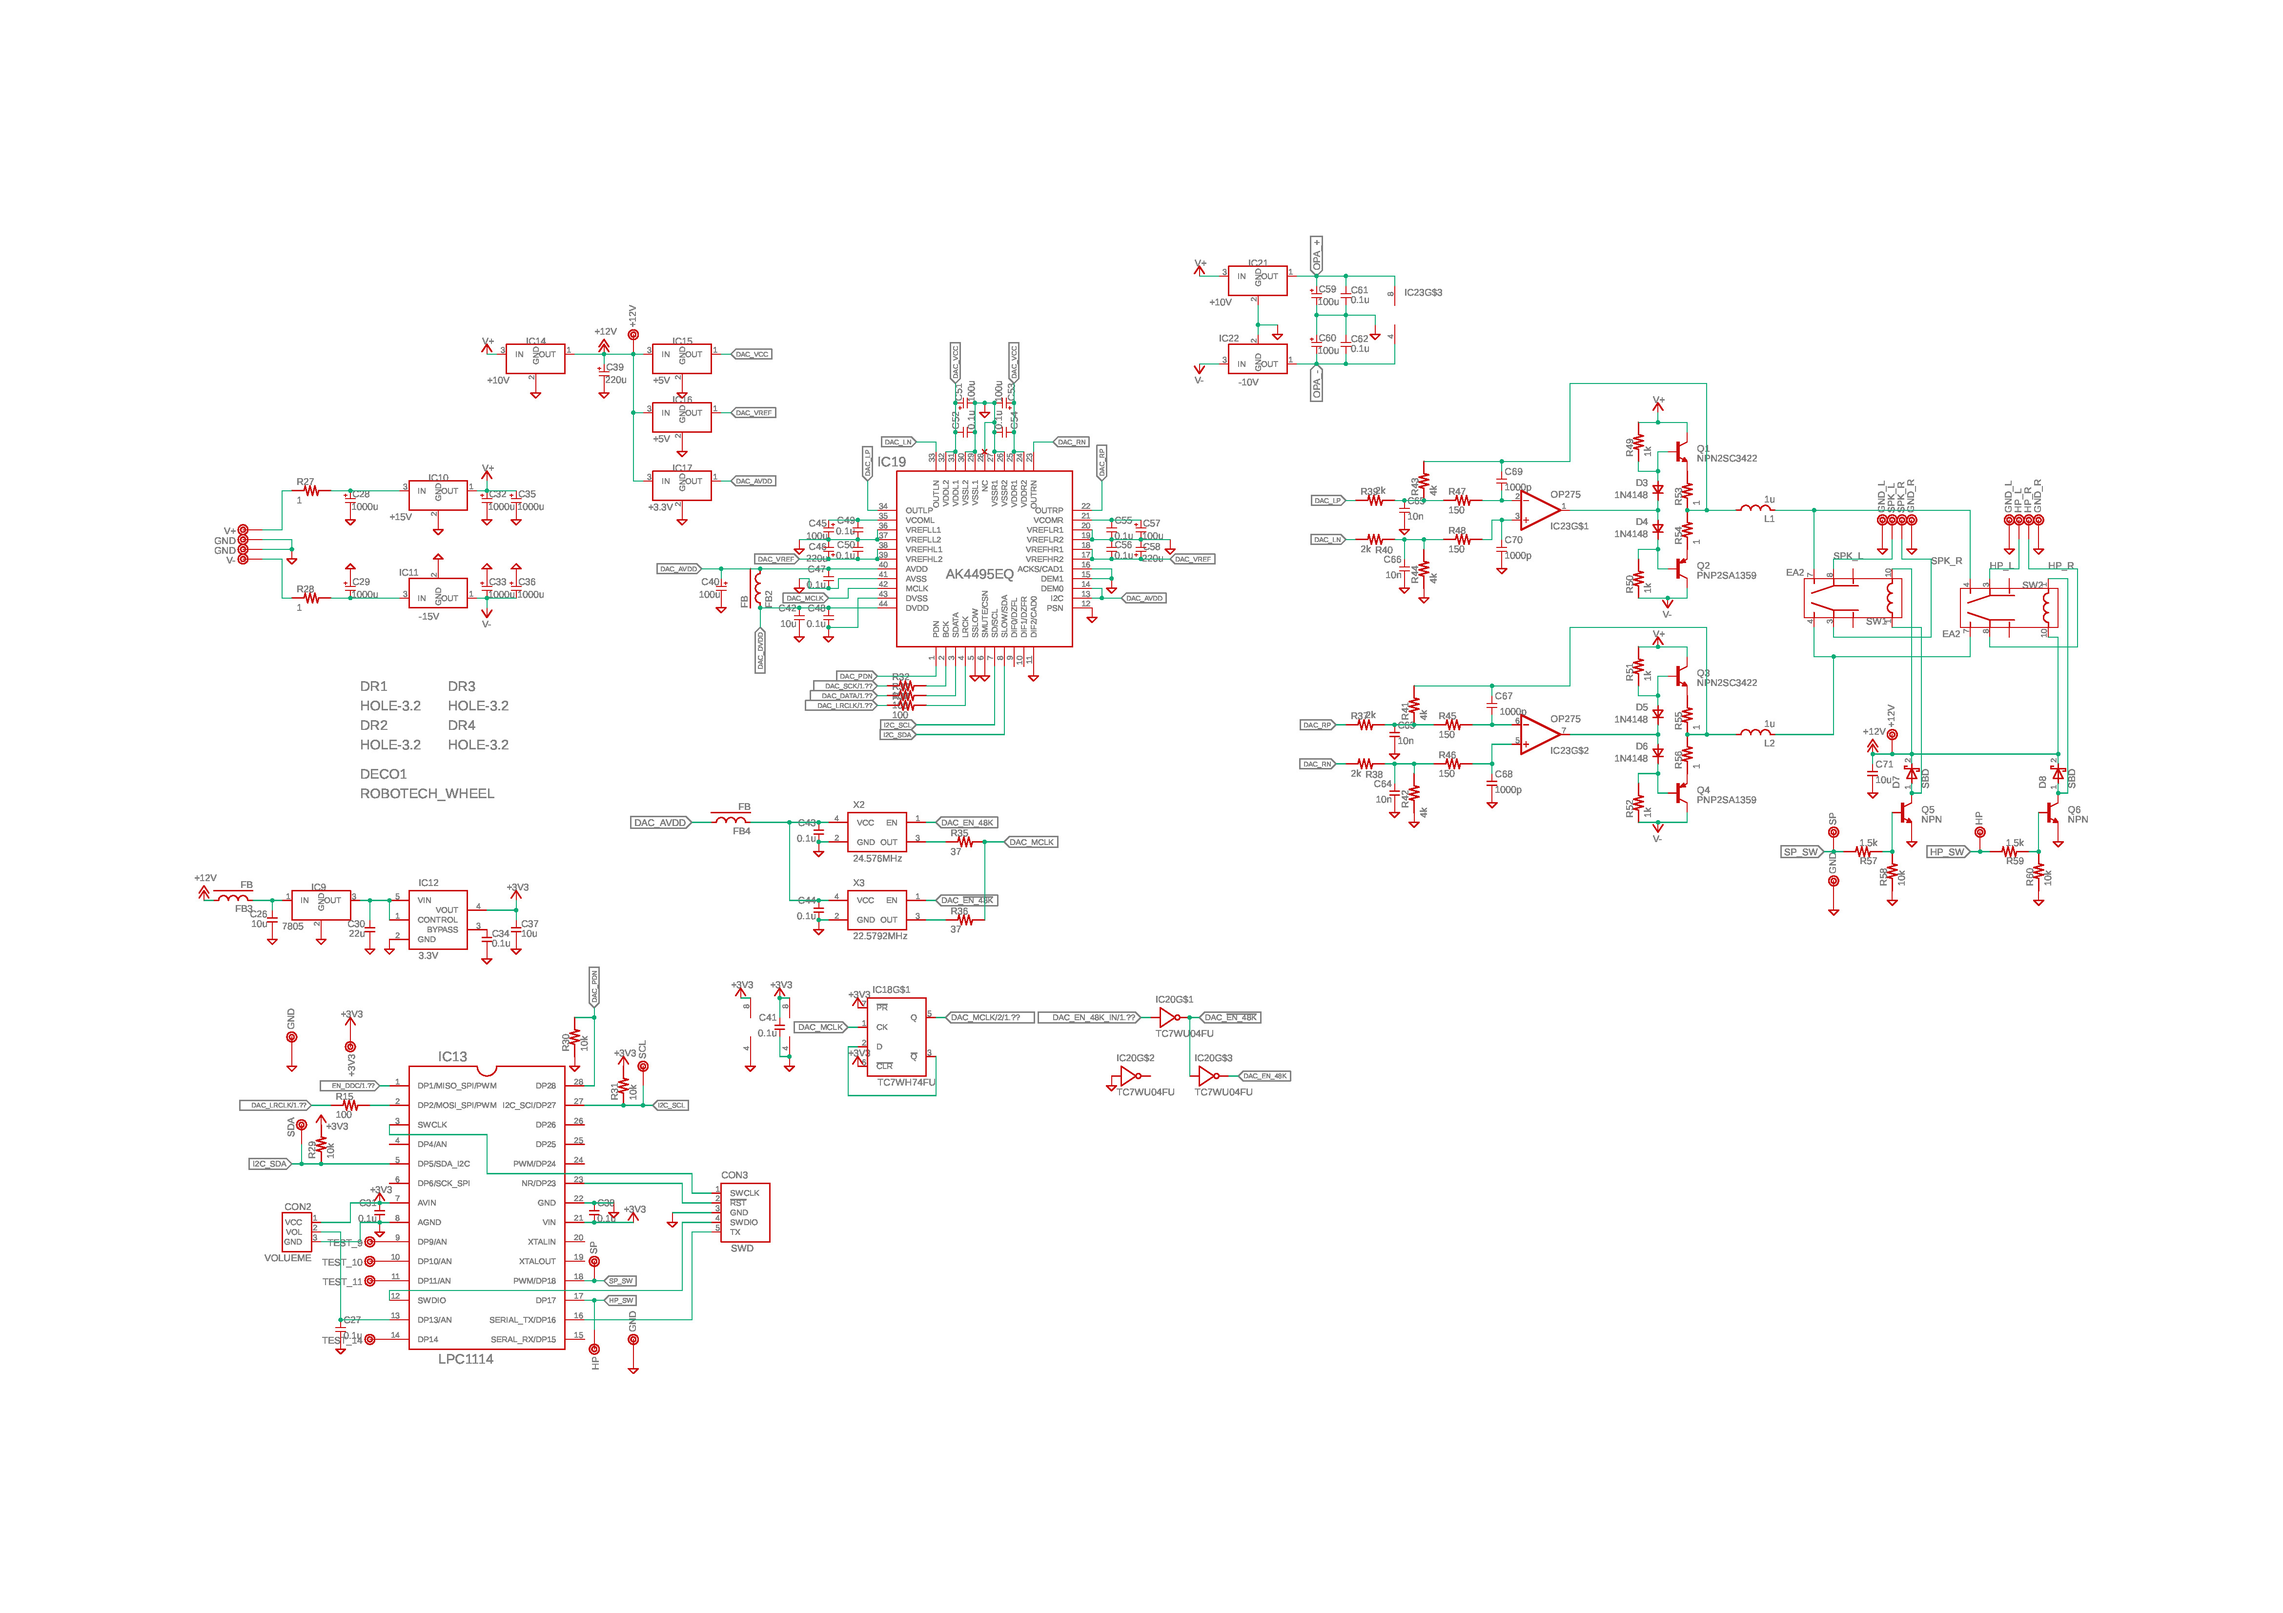
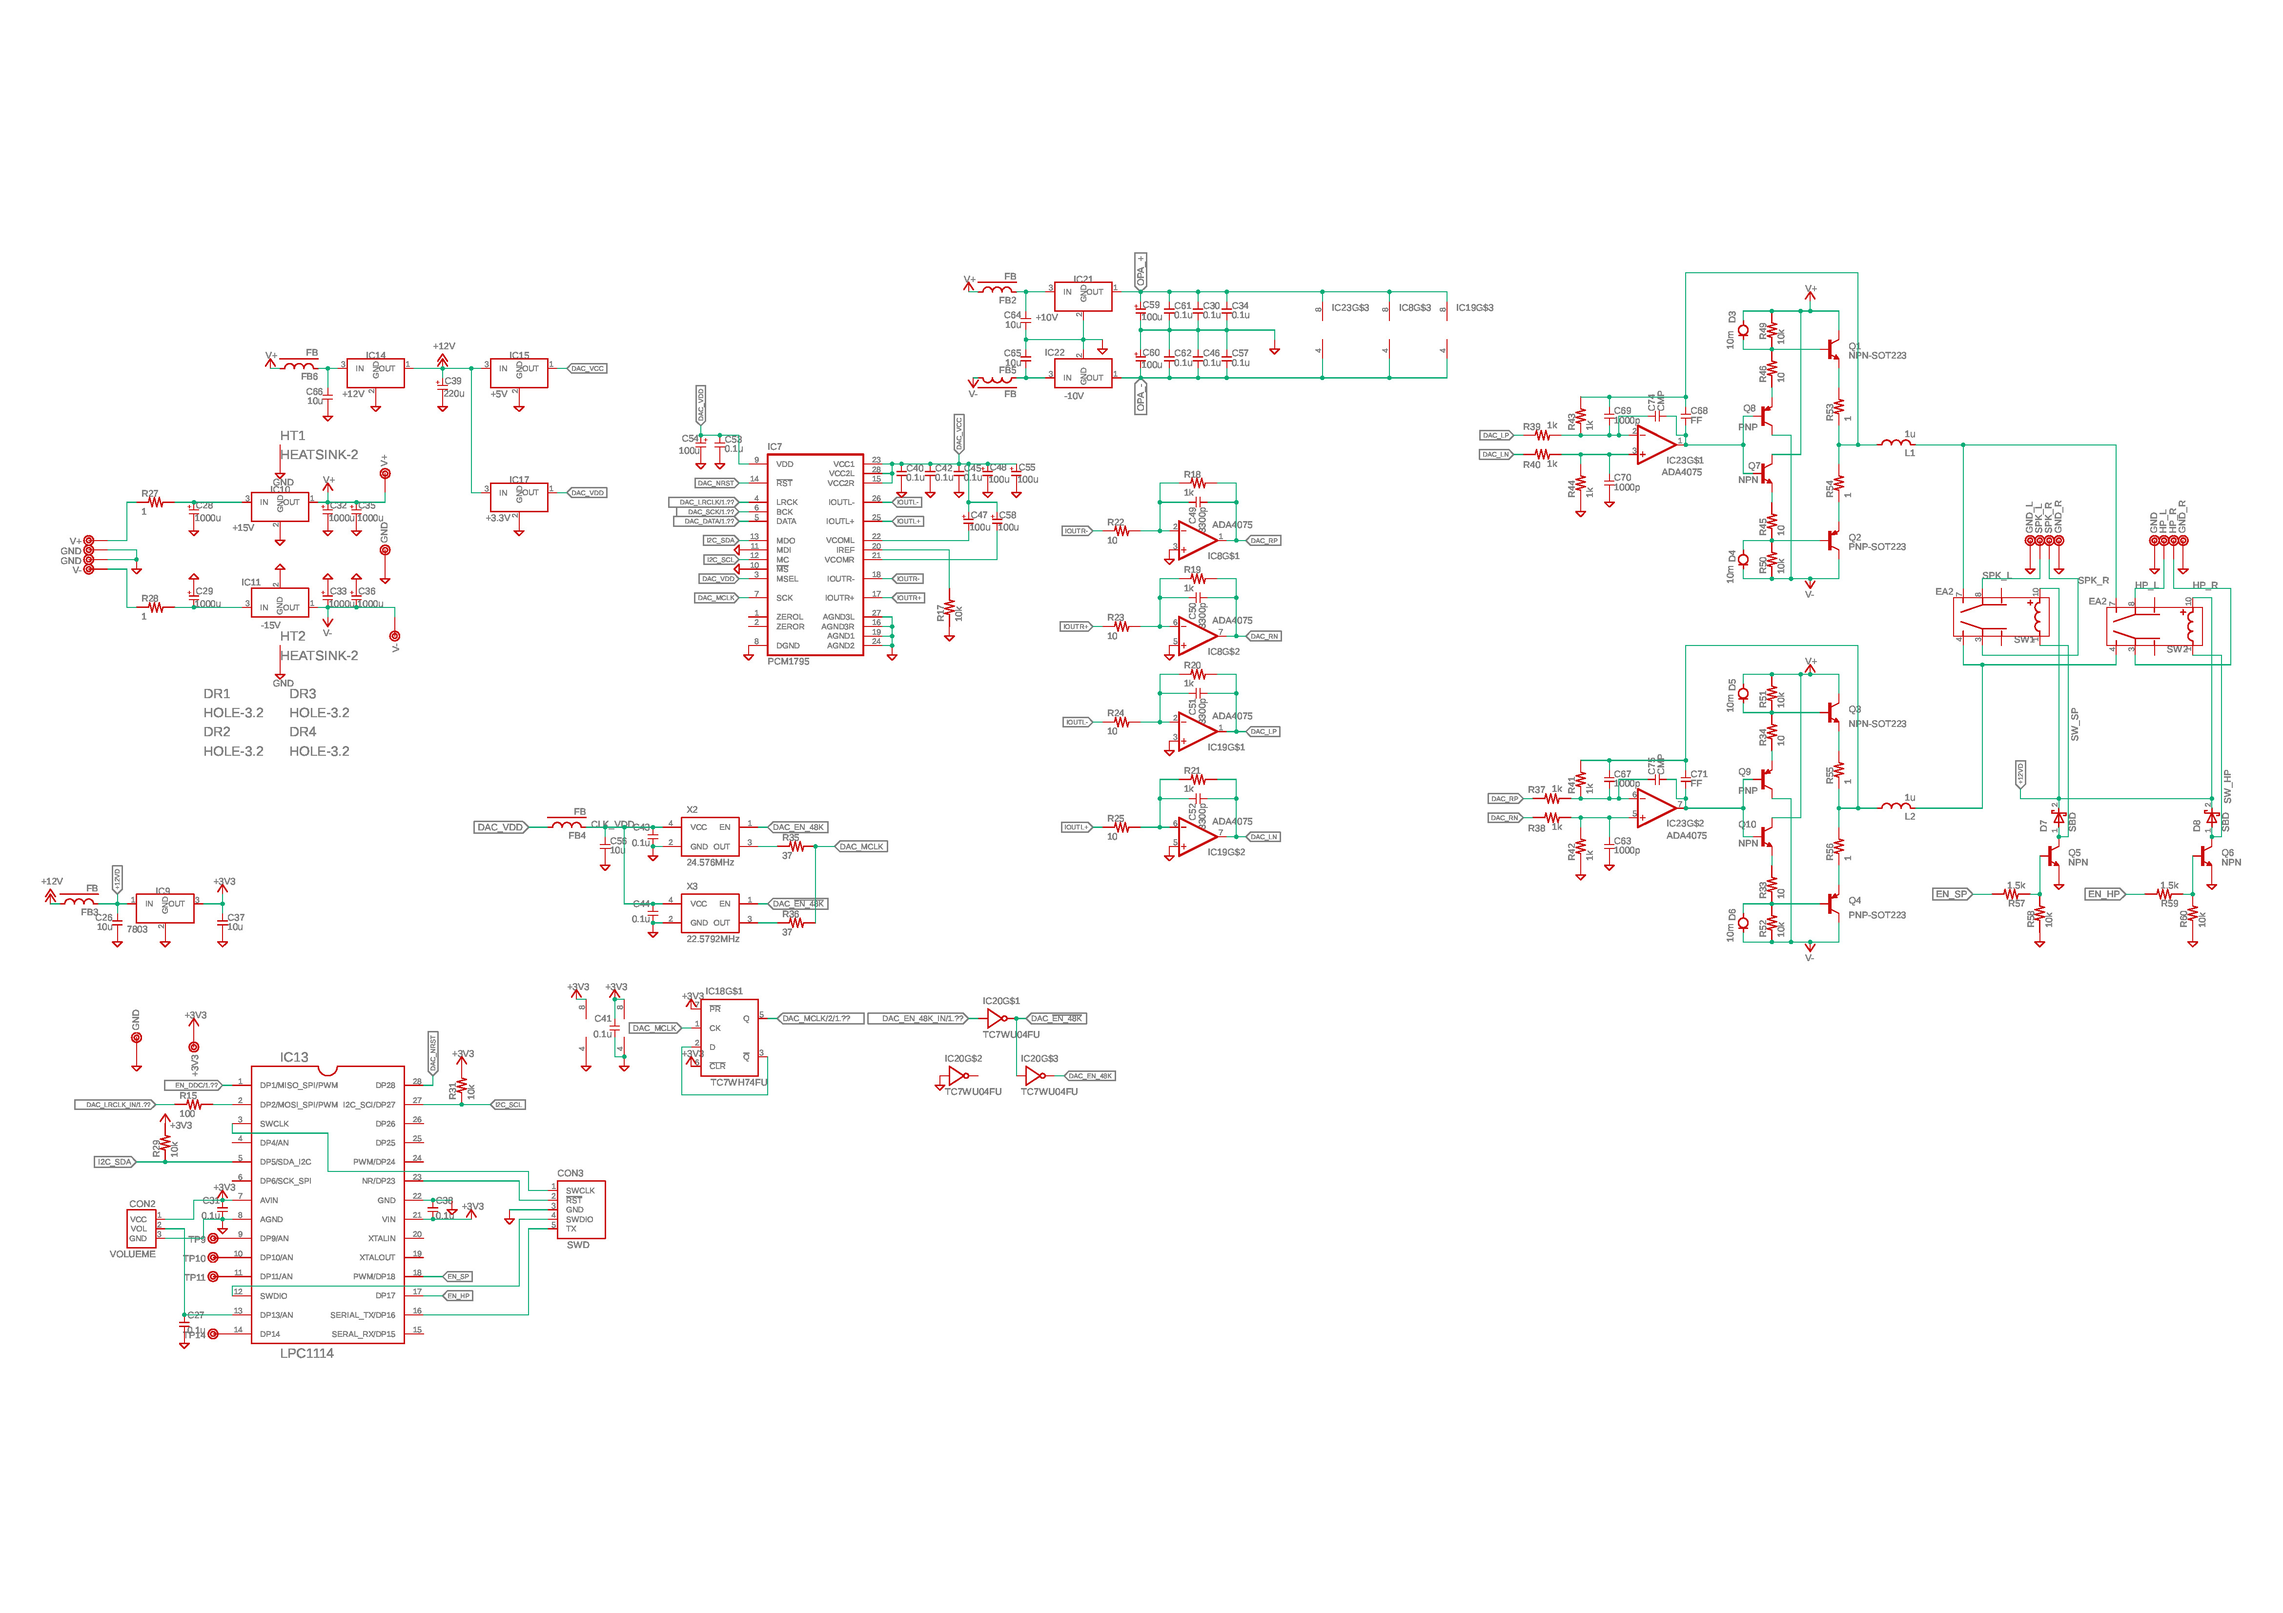
update README

diff --git a/README.md b/README.md
@@ -1,13 +1,13 @@
-USB Audio DAC version 6.1
+USB Audio DAC version 8
  * Input: USB Audio class 2.0 (192kHz 24bit)
- * Output: Headphone and speakers (3W max @8Ω)
+ * Output: Headphone and speakers (5W max @8Ω)
  * THD+N < -100dB (0.001%) at 1W 8Ω 
  * Low output noise: <10uVrms (20-20kHz)
  * 4-layer PCB for solid ground
  * Use SDR-Widget with very low jitter design
  * USB input is isolated
- * Use AK4495 with [LED regulators](https://github.com/tarori/Circuit.LEC-Regulator) (discrete low noise, low impedance regulator) 
- * Low gain class AB amplifier with LED regulators
+ * Use PCM1795 with [LED regulators](https://github.com/tarori/Circuit.LEC-Regulator) (discrete low noise, low impedance regulator) 
+ * Low gain class AB amplifier
  * Two mute relays for headphone and speakers
  * Input power: ±20V 2A
 
